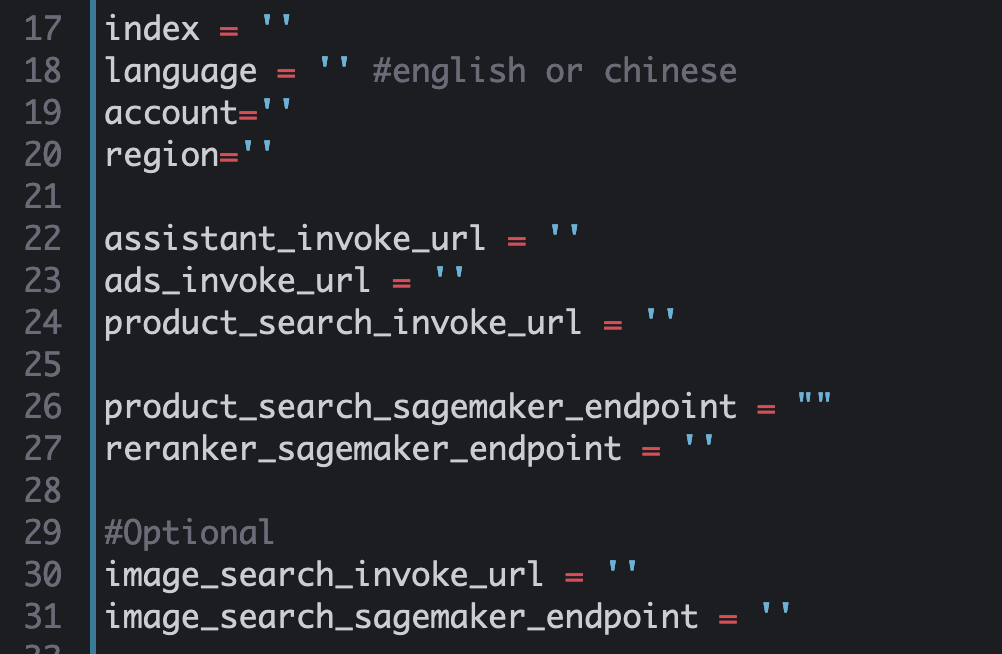
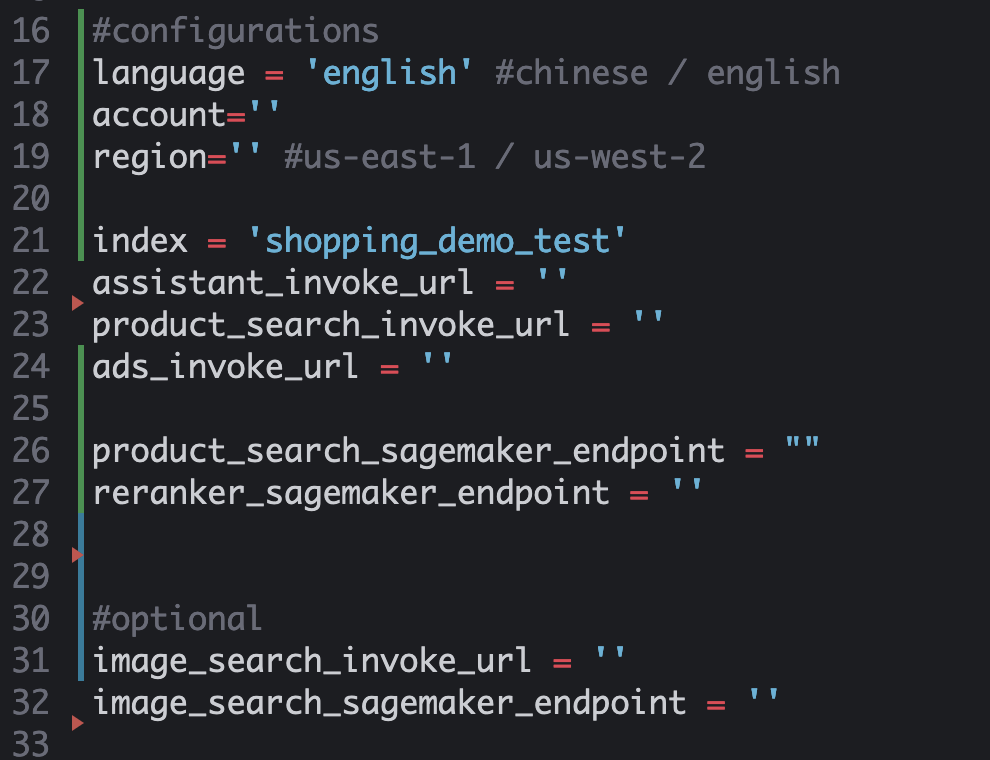
fix data load

diff --git a/web_ui/pages/Assistant.py b/web_ui/pages/Assistant.py
@@ -14,8 +14,8 @@ import os
 import ast
 
 
-index = ''
-language = '' #english or chinese
+index = 'shopping_demo_test'
+language = 'english' #english or chinese
 account=''
 region=''
 

diff --git a/README.md b/README.md
@@ -110,12 +110,7 @@ In the Amazon SageMaker -> Notebook instances -> ShoppingGuideNotebook -> intell
 * 【Optional】open image_embedding_model/deploy-clip-image-embedding.ipynb to deploy the image embedding model
 
 
-### 3. WebUI deployment
-
-Deploy webUI with reference to  [UI_deployment_README](https://github.com/aws-samples/intelligent-shopping-assistant/blob/main/web_ui/UI_deployment_README.md)
-
-
-### 4. data load
+### 3. data load
 
 Choose one of the following two methods
 
@@ -123,11 +118,18 @@ Choose one of the following two methods
 
 In the Amazon SageMaker -> Notebook instances -> ShoppingGuideNotebook -> intelligent_shopping_assistant/data_load_offline
 
-* open /opensearch/data_load_csv.ipynb to load the product information with csv format
+* open /opensearch/data_load_csv.ipynb to load the product information with csv format, need to replace the "textEmbeddingEndpoint" parameters.
 
 #### online data load
 
 In the the web ui page, open data_load page to load data. 
+
+
+### 4. WebUI deployment
+
+Deploy webUI with reference to  [UI_deployment_README](https://github.com/aws-samples/intelligent-shopping-assistant/blob/main/web_ui/UI_deployment_README.md)
+
+
 
 
 ## Security

diff --git a/deployment/Resource_deployment_README.md b/deployment/Resource_deployment_README.md
@@ -6,6 +6,7 @@ Please make sure you have over 14 GB memory and Python 3 and npm installed on yo
 If there's no npm, install via nvm:
 ```
 curl -o- https://raw.githubusercontent.com/nvm-sh/nvm/v0.39.3/install.sh | bash
+source ~/.bashrc
 ```
 Note the v0.39.3 is just an example, download your preferred version.Then close and reopen terminal, then
 
@@ -33,6 +34,7 @@ npm install -g aws-cdk
 3. Bootstrap the CDK to provision all the infrastructure needed for the CDK to make changes to your AWS account
 
 ```
+sudo yum install python3-pip
 pip install -r requirements.txt
 ```
 (precondition: you have installed pip via "sudo apt install python3-pip")
@@ -56,7 +58,7 @@ cdk synth
 ```
 If everything is good, then
 ```
-cdk deploy --all
+cdk deploy --all --no-roll-back --require-approval never
 ```
 5. The CDK deployment will provide 3 CloudFormation stacks with relevant resouces like Lambda, API Gateway, OpenSearch instance and SageMaker notebook etc.
 

diff --git a/web_ui/UI_deployment_README.md b/web_ui/UI_deployment_README.md
@@ -51,6 +51,7 @@ server {
 
 Change the xxx.xxx.xxx.xxx to the EC2 private IP.
 
+![IP](../assets/ip.png)
 
 ### 4. start nginx
 
@@ -61,7 +62,7 @@ sudo systemctl start nginx.service
 
 ### 5.configure the invoke url
 
-Open the intelligent_shopping_assistant/web_ui/pages/Assistant.py,Fill in the following parameters:
+Open the /home/ec2-user/intelligent-shopping-assistant/web_ui/pages/Assistant.py,Fill in the following parameters:
 
 ![API](../assets/configurations.png)
 
@@ -103,7 +104,7 @@ paste the invoke url to the webpage api url input box
 ### 6.Run streamlit ui stript
 
 ```
-cd /home/ec2-user/intelligent_shopping_assistant/web_ui
+cd /home/ec2-user/intelligent-shopping-assistant/web_ui
 tmux
 streamlit run shopping_assistant_demo.py
 ```
